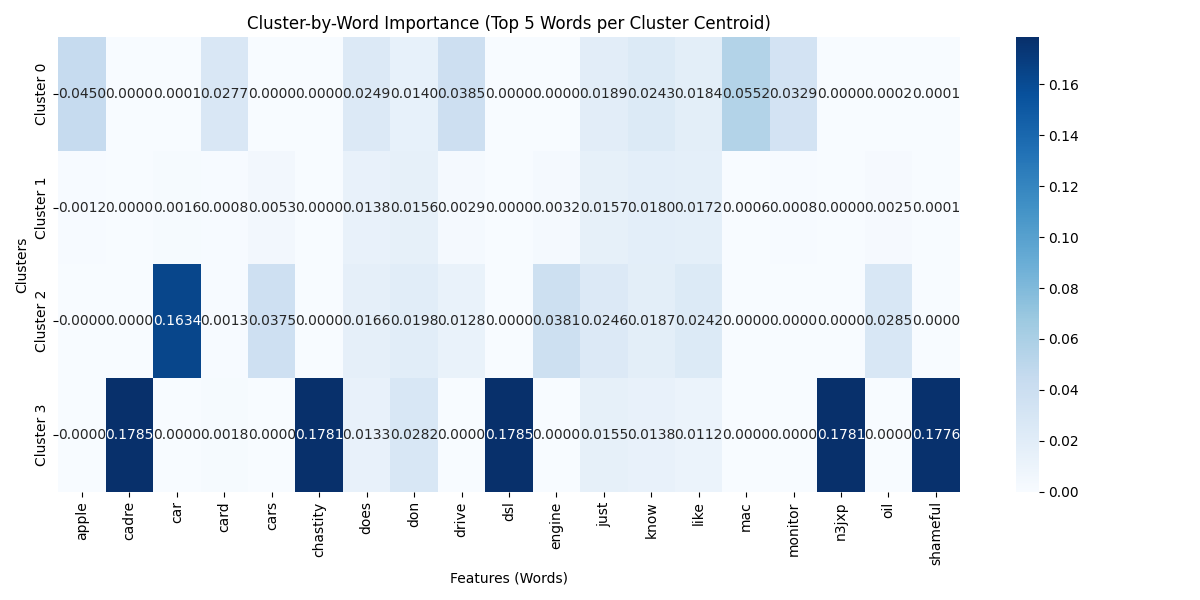
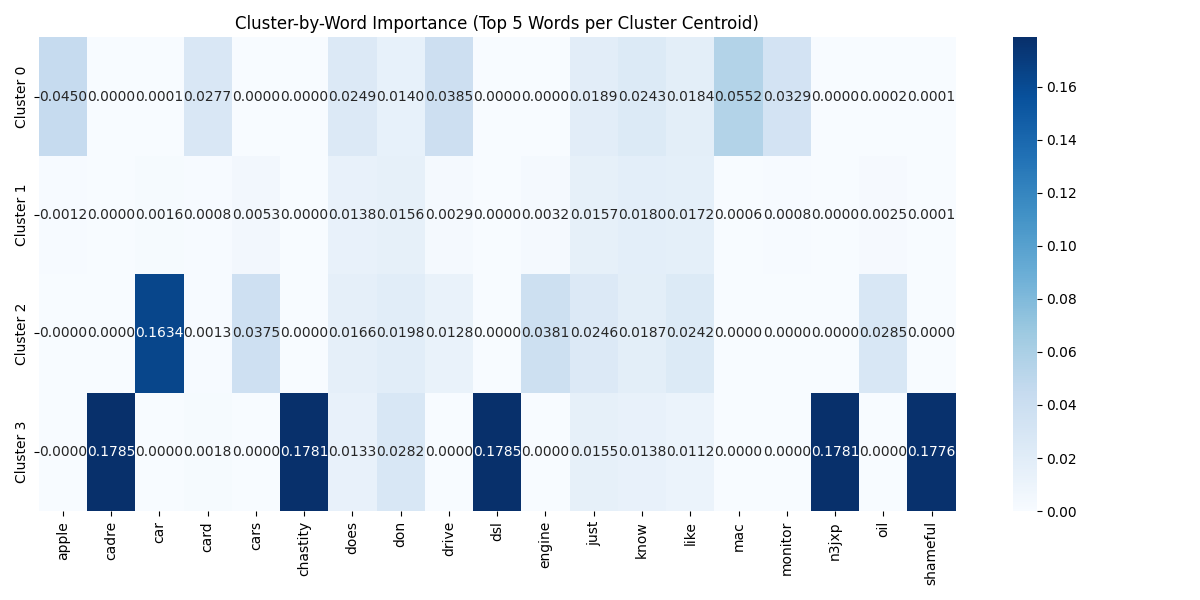
Successfully complete Lab 15 NLP TF-IDF & K-Means clustering pipeline with passing tests

diff --git a/lab15_starter.py b/lab15_starter.py
@@ -1,0 +1,67 @@
+
+import numpy as np
+import pandas as pd
+import nltk
+from nltk.tokenize import word_tokenize
+from nltk.corpus import stopwords
+from nltk.stem import PorterStemmer, WordNetLemmatizer
+from sklearn.datasets import fetch_20newsgroups
+from sklearn.feature_extraction.text import CountVectorizer, TfidfVectorizer
+from sklearn.cluster import KMeans
+from sklearn.decomposition import TruncatedSVD
+import matplotlib.pyplot as plt
+import seaborn as sns
+from sklearn.feature_extraction import text
+
+# NLTK Downloads
+nltk.download('punkt')
+nltk.download('punkt_tab')
+nltk.download('stopwords')
+nltk.download('wordnet')
+
+# Sample Post Tokenization & Stemming
+sample_post = "I'm looking for some help with my Mac hardware. Specifically, the graphics card seems to be overheating when running games. Any advice? 12345!"
+tokens = word_tokenize(sample_post.lower())
+all_alphabetic_tokens = [w for w in tokens if w.isalpha()]
+
+stop_words = set(stopwords.words('english'))
+filtered_tokens = [w for w in all_alphabetic_tokens if w not in stop_words]
+
+stemmer = PorterStemmer()
+lemmatizer = WordNetLemmatizer()
+stemmed_tokens = [stemmer.stem(w) for w in filtered_tokens]
+lemmatized_tokens = [lemmatizer.lemmatize(w, pos='v') for w in filtered_tokens]
+
+# Fetching Dataset
+categories = ['sci.electronics', 'comp.sys.mac.hardware', 'rec.autos', 'sci.med']
+newsgroups = fetch_20newsgroups(subset='all', categories=categories, remove=('headers', 'footers', 'quotes'))
+df = pd.DataFrame({'text': newsgroups.data, 'true_label': newsgroups.target})
+
+# Vectorization
+bow_vec = CountVectorizer(stop_words='english', max_features=4000, min_df=5)
+tfidf_vec = TfidfVectorizer(stop_words='english', max_features=4000, min_df=5)
+X_bow = bow_vec.fit_transform(df['text'])
+X_tfidf = tfidf_vec.fit_transform(df['text'])
+
+total_elements = X_tfidf.shape[0] * X_tfidf.shape[1]
+non_zero_elements = X_tfidf.nnz
+sparsity = 100.0 * (1.0 - (non_zero_elements / total_elements))
+
+# Compute mean score per feature across documents and plot Top 10
+mean_tfidf = np.asarray(X_tfidf.mean(axis=0)).ravel()
+feature_names = np.array(tfidf_vec.get_feature_names_out())
+top_indices = mean_tfidf.argsort()[-10:]
+top_features = feature_names[top_indices]
+top_scores = mean_tfidf[top_indices]
+
+# KMeans Clustering
+kmeans = KMeans(n_clusters=4, random_state=42, n_init=10)
+df['cluster'] = kmeans.fit_predict(X_tfidf)
+
+# Explain Document function
+def explain_document(doc_id, X_matrix, vectorizer, top_n=5):
+    feats = np.array(vectorizer.get_feature_names_out())
+    doc_row = X_matrix[doc_id].toarray().flatten()
+    nz = doc_row.nonzero()[0]
+    sorted_idx = nz[doc_row[nz].argsort()[::-1]]
+    return [(feats[i], doc_row[i]) for i in sorted_idx[:top_n]]
